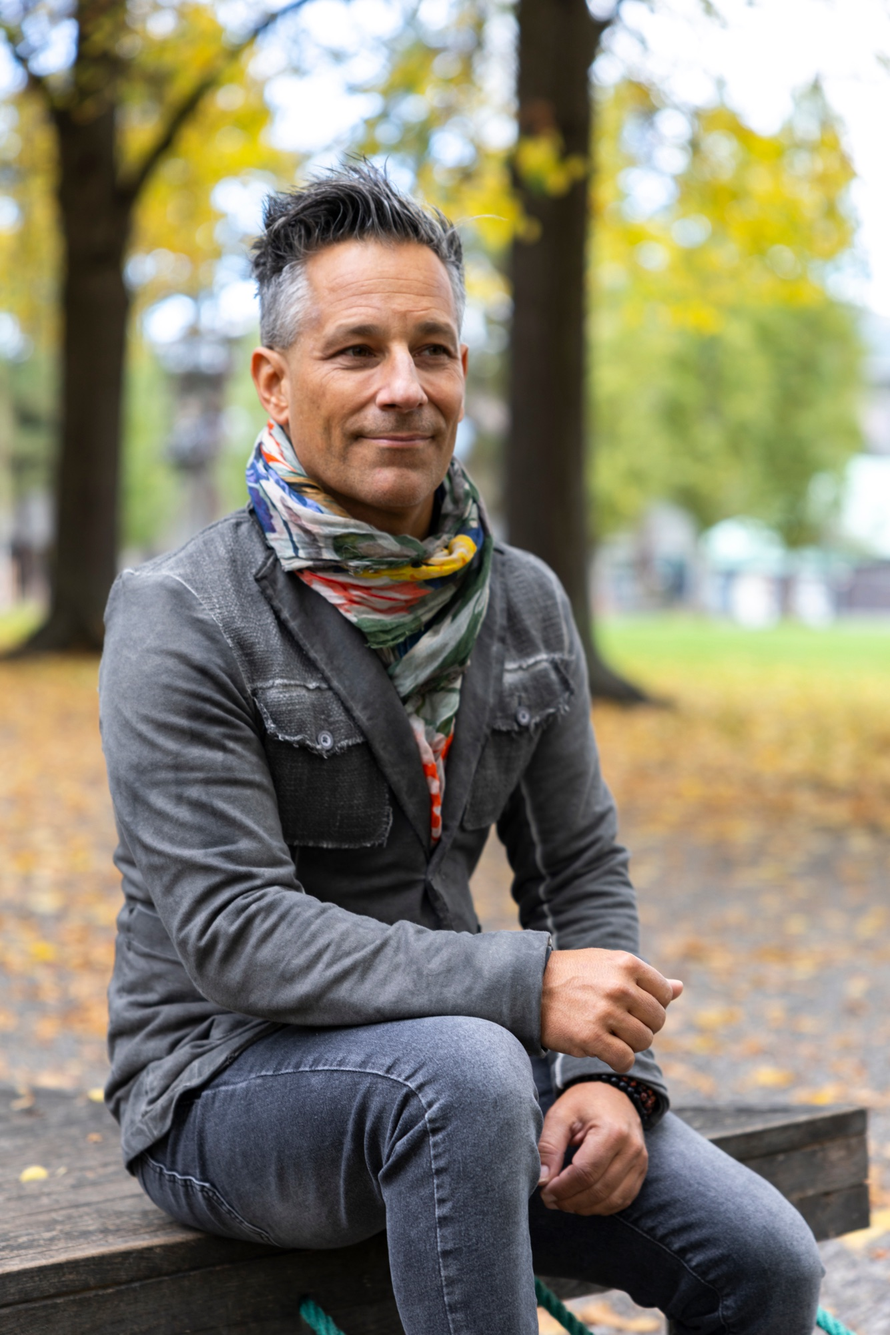
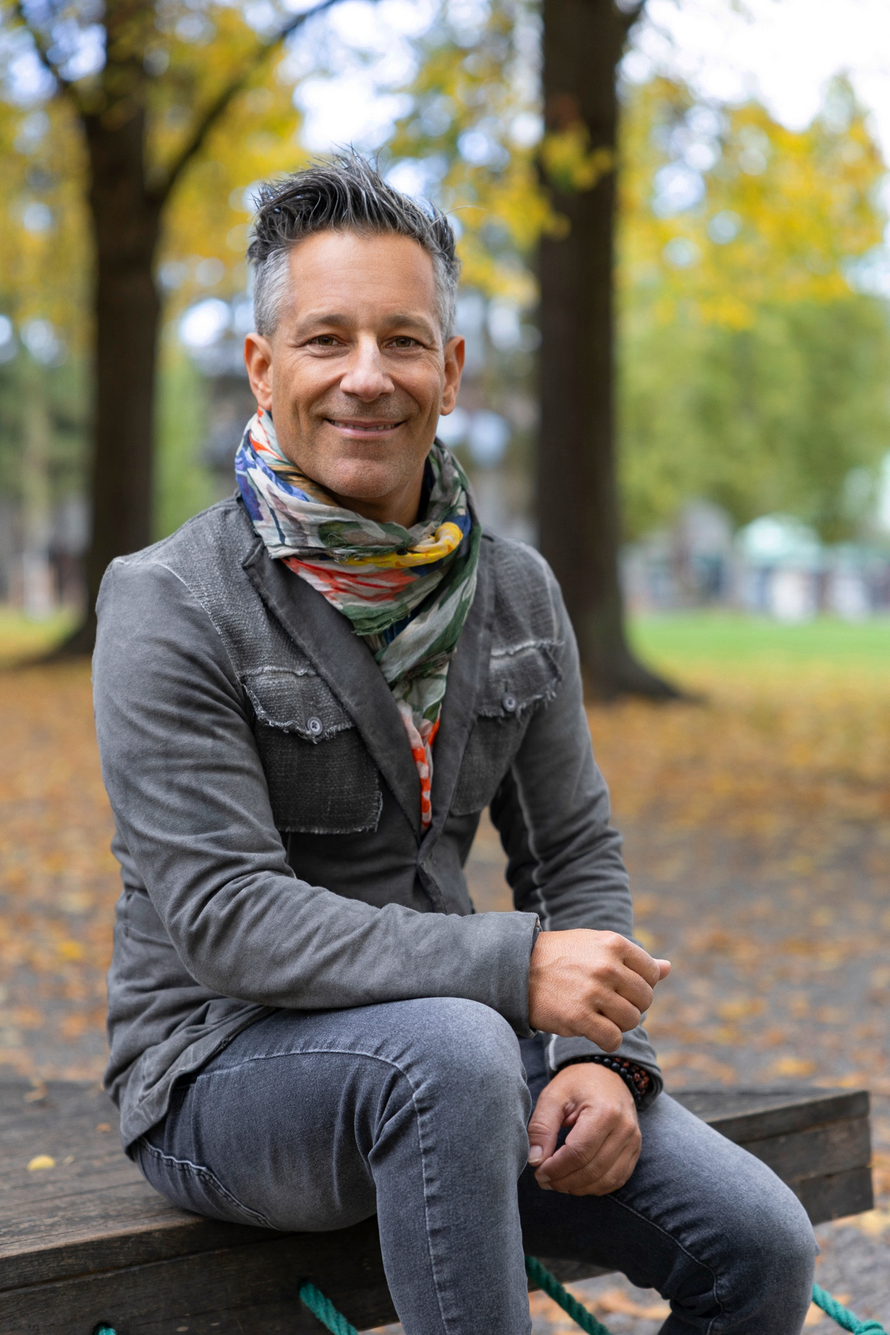
Use Henrik's close-up (No. 21) as the team hero with white space on the sides, and No. 20 as the park photo

diff --git a/HANDOFF.md b/HANDOFF.md
@@ -32,10 +32,11 @@ All committed and pushed; deploy once more to see them on staging.
 
 ## Team page photos (2026-10-29)
 
-- Portrait by Henrik Nielsen (`andy-portrait.jpg`) as the hero right after "Zur Person", full content width, uncropped.
+- Portrait by Henrik Nielsen (`andy-portrait.jpg`) as the hero right after "Zur Person", uncropped. Since 2026-11-18 it is the upright close-up ("Andreas Baumgratner_21", 2:3): full width on mobile, from md centred in a 3:2 box (the old hero's footprint) with white space left and right.
 - Below Eckdaten, not indented, three per row at every width: park portrait (`andy-park.jpg`), snowboard, golf (`andy-golf.jpg`, anchored left). Gap above the grid 40 / 64 / 96 px (mobile / md / lg).
 - Impressum, Bildnachweis: "Fotograf: Henrik Nielsen".
-- The park portrait is the photographer's original (2026-10-30), converted from Adobe RGB to sRGB, scaled to 2000 px on the long side and cropped to 4:5 from the centre. The hero was replaced on 2026-11-10 with the client's new version ("Andreas Baumgratner_09_NEU.png", 2000 × 1334, 3:2), saved as JPEG q90 in sRGB; its `widths` now top out at 2000.
+- 2026-11-18: hero and park portrait replaced with Henrik's second delivery (No. 21 and No. 20), both converted Adobe RGB → sRGB, 1334 × 2000, JPEG q90; the park photo is still cropped to 4:5 by CSS.
+- Before that, the park portrait was the photographer's original (2026-10-30), converted from Adobe RGB to sRGB, scaled to 2000 px on the long side and cropped to 4:5 from the centre. The hero was replaced on 2026-11-10 with the client's new version ("Andreas Baumgratner_09_NEU.png", 2000 × 1334, 3:2), saved as JPEG q90 in sRGB; its `widths` now top out at 2000.
 - Sitemap is a single `/sitemap.xml` from `src/pages/sitemap.xml.ts` (2026-10-30, replaced `@astrojs/sitemap`); the old `/sitemap-index.xml` and `/sitemap-0.xml` redirect there (`public/.htaccess`).
 
 ## Open
